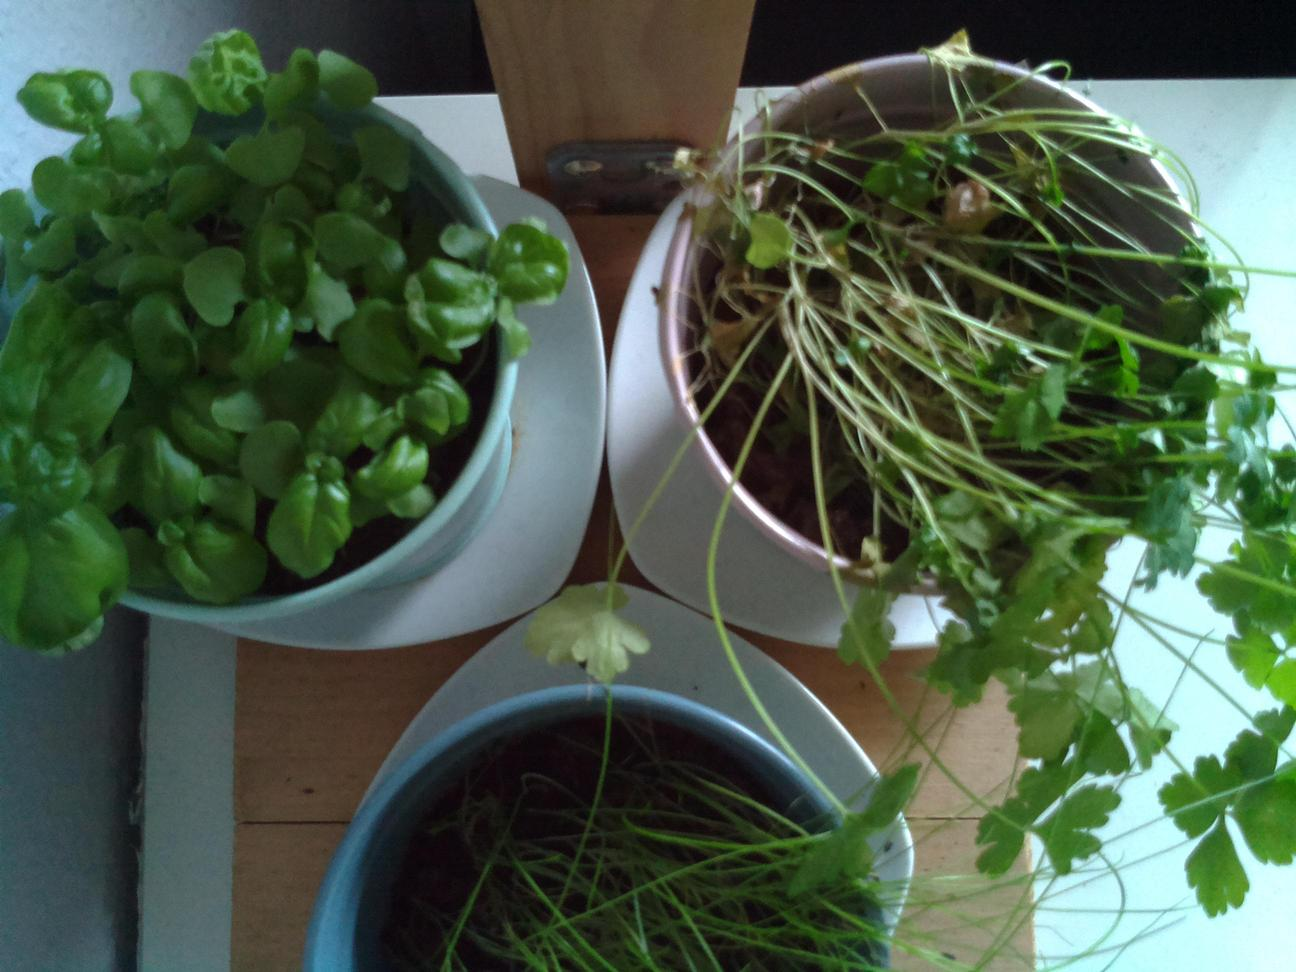
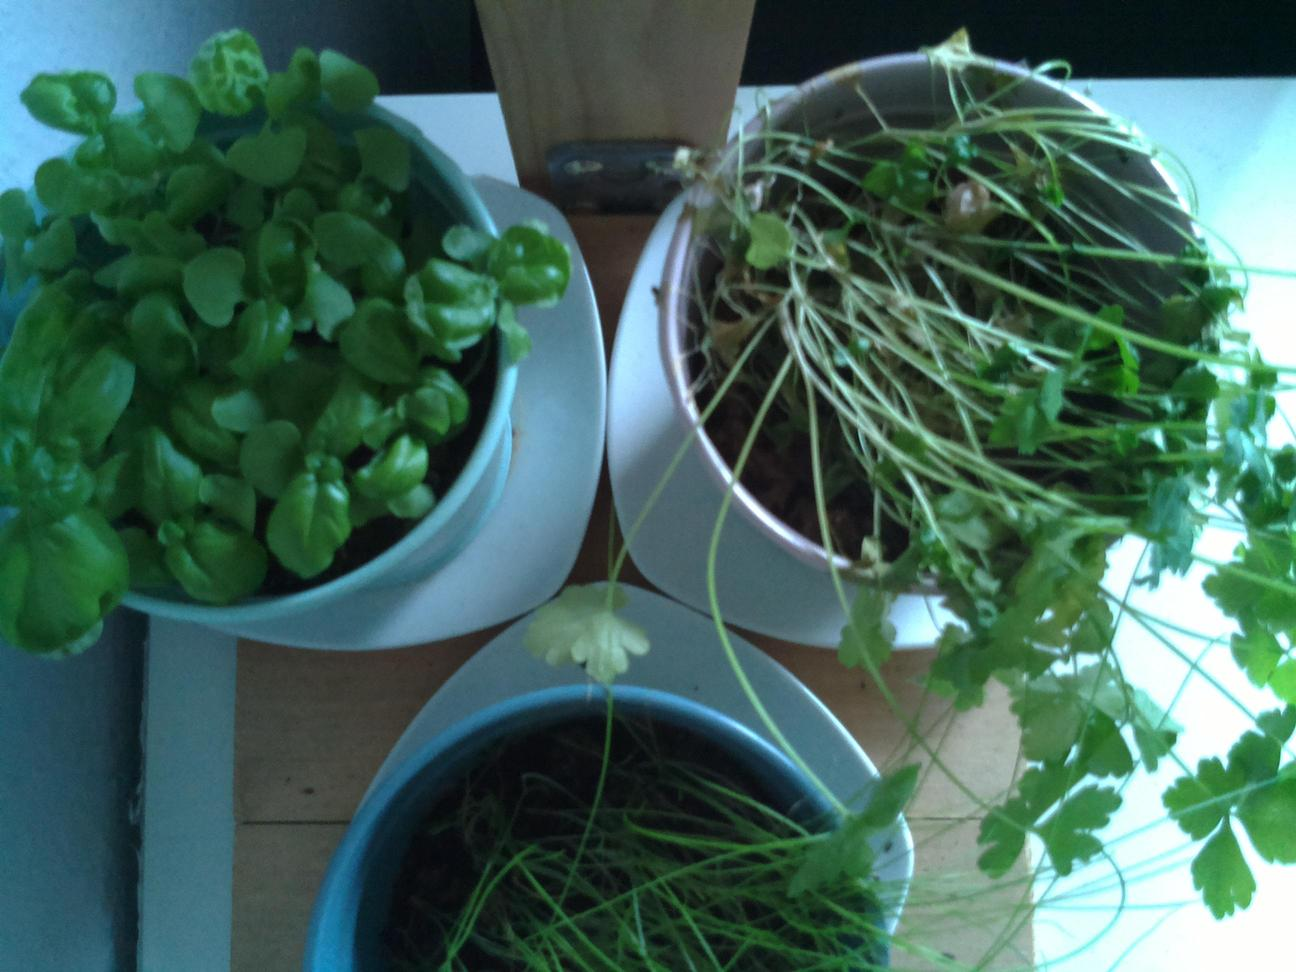
Update images at Sat 19 Jun 13:20:02 BST 2021

diff --git a/docs/index.html b/docs/index.html
@@ -28,7 +28,7 @@
 
                 <h5>Latest image</h5>
 		<div style="width: 85%;">
-	                <img class="figure-img img-fluid rounded" src="./preview.jpg?uid=1624101583.2056918">
+	                <img class="figure-img img-fluid rounded" src="./preview.jpg?uid=1624105202.315566">
 		</div>
             </div>
         </div>
